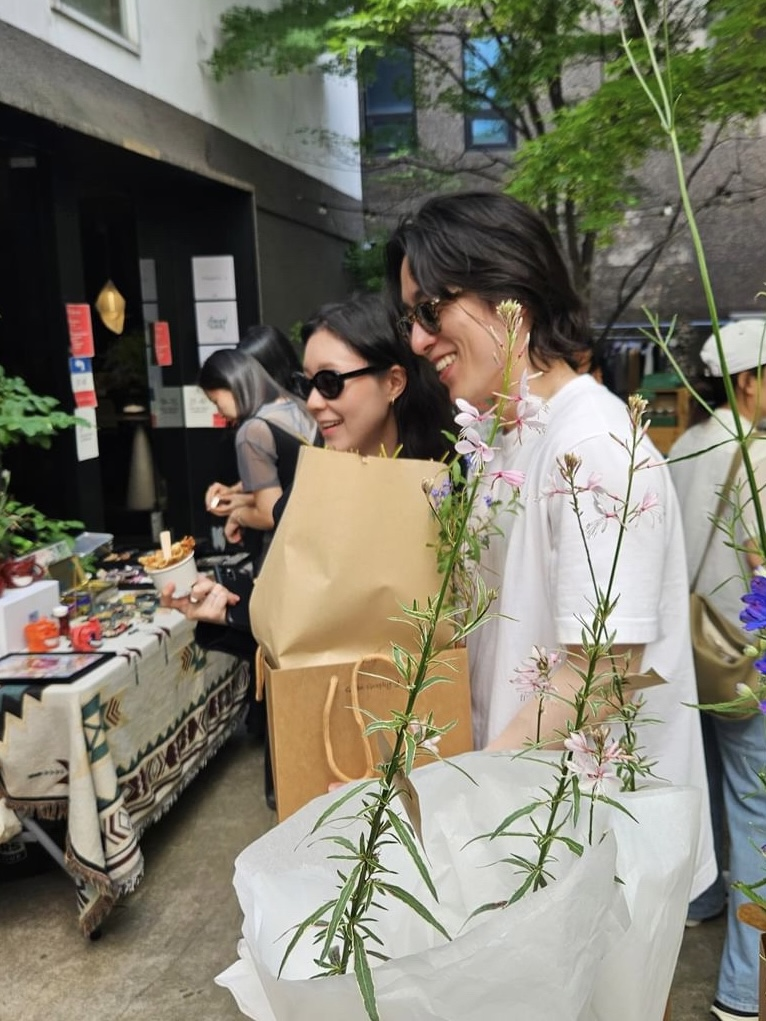
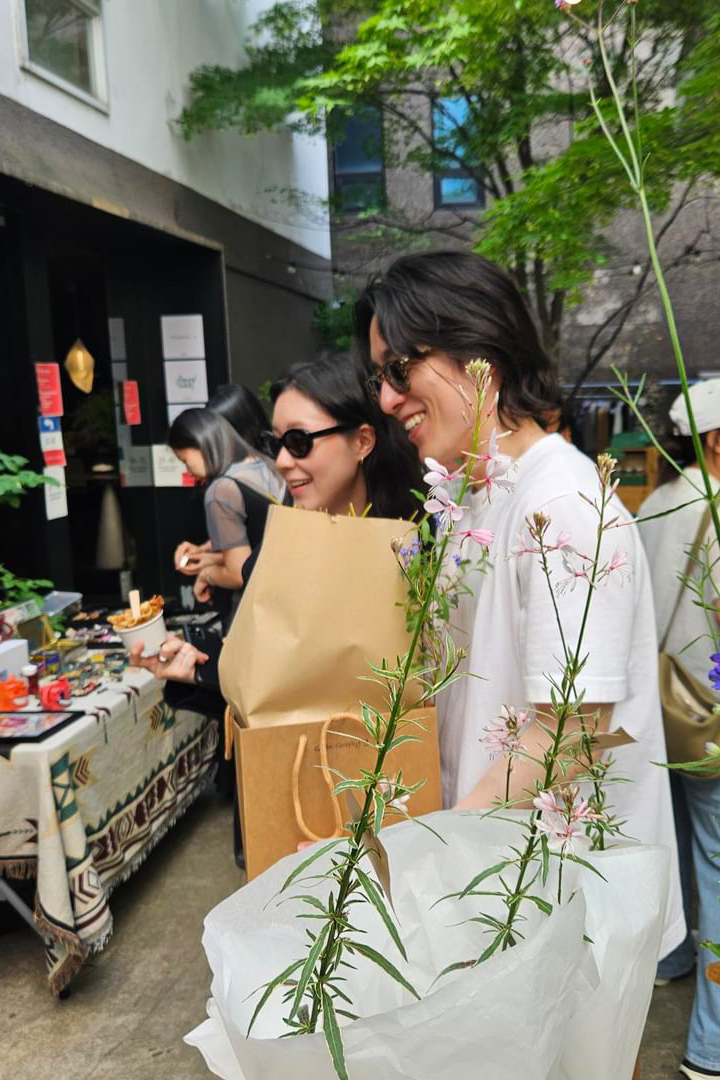
edit background img

diff --git a/index.html b/index.html
@@ -5,7 +5,7 @@
   <meta name="viewport" content="width=device-width, initial-scale=1.0">
   <title>김도형♥최주영 결혼합니다</title>
   <meta property="og:title" content="김도형♥최주영 결혼합니다">
-  <meta property="og:image" content="https://chimz087.github.io/img/IMG_2300_3.JPG">
+  <meta property="og:image" content="https://chimz087.github.io/img/IMG_2300.JPG">
   <meta property="og:type" content="website" />
   <meta property="og:image:type" content="image/jpeg">
   <meta property="og:url" content="https://chimz087.github.io">

diff --git a/assets/css/style.css b/assets/css/style.css
@@ -9,7 +9,7 @@ html {
 }
 
 .hero {
-  background-image: url('../../img/IMG_2300_3.JPG');
+  background-image: url('../../img/IMG_2300.JPG');
   background-size: cover;
   background-repeat: no-repeat;
   background-position: center;
